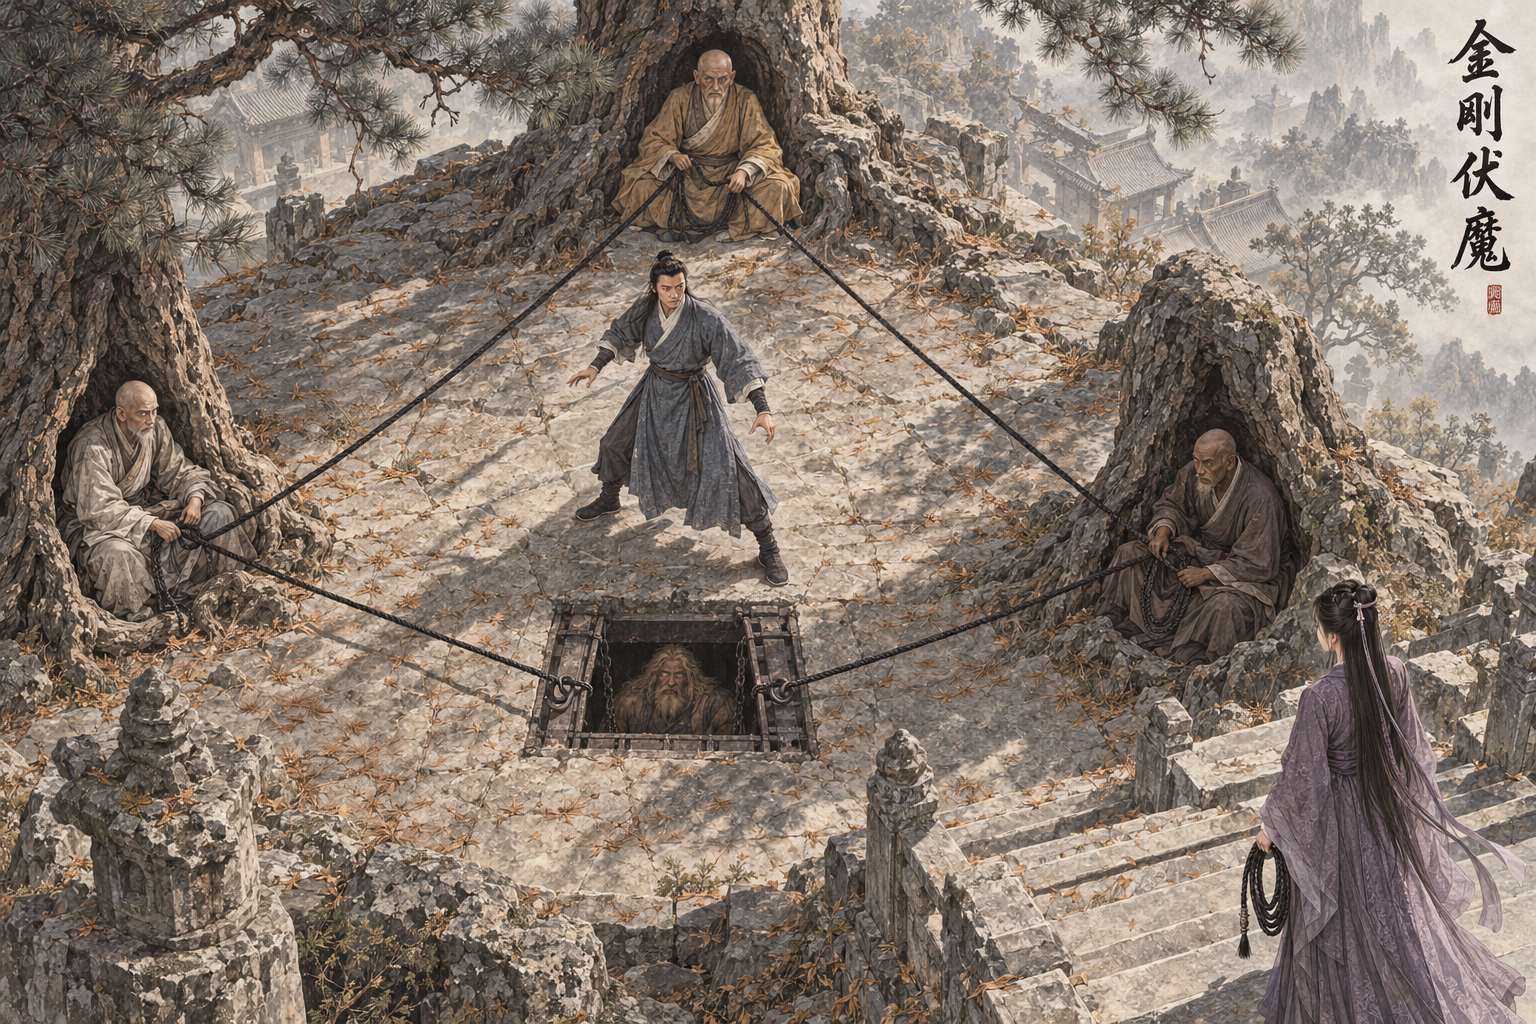
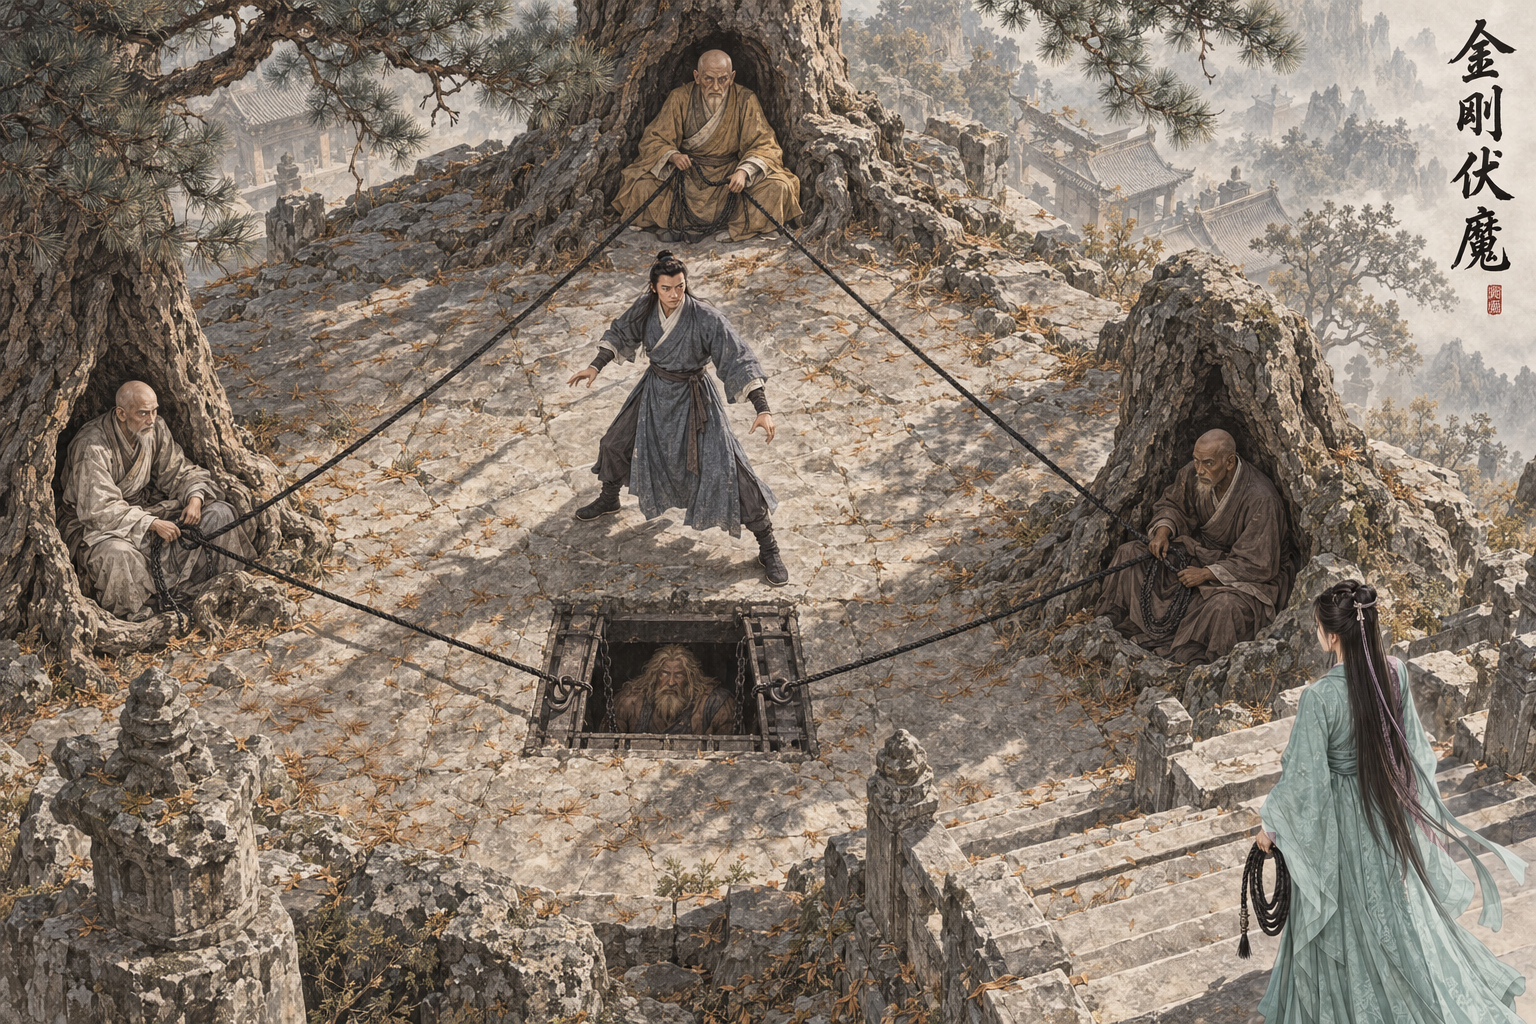
assets: AR-82 原著核对返修 金刚伏魔插图同步周芷若素淡青衣
原著摘句已同步提示词；已打开验图；蒙版外0像素变化。

Executed-By: Codex gpt-6.1-sol（AR-82）

Changed region(s): [[0.8125, 0.6562, 1.0, 1.0]]

diff --git a/assets/default/prompts/scenes/ch04-yitian/cg_ch04_vajra_circle.md b/assets/default/prompts/scenes/ch04-yitian/cg_ch04_vajra_circle.md
@@ -69,3 +69,7 @@ composite_job: cg_ch04_vajra_circle.resume3
 排除项：不要文字、题字、字幕、水印、签名、Logo、边框或分镜格；不要未指定的多余人物（明确要求的远景群像除外）；不要幼态、儿童体态、性化处理、裸露或恋物特写；不要血腥特写、断肢、尸体堆叠或伤口细节；不要真人、演员、影视剧照复刻；不要多余肢体、手指错误、脸部融合、身份串脸、时代错装、现代物件、动漫风、摄影棚感、3D 塑料感。
 ```
 
+## 原著依据
+
+- 《倚天屠龙记》三十八 君子可欺之以方：“青影闪动，一条长鞭迎面击来”；https://www.xuges.com/wuxia/jinyong/yttlj/284.htm
+- AR-82 返修约束（本节优先于历史提示词）：只将右下前景背侧身周芷若的灰紫衣裙改为素淡青色（浅青绿），原衣料褶皱、鞭子和身体姿势保持；不能改其他三僧或张无忌、地窖和黑索。周芷若头发与脸、题字朱印及背景完全不动。
